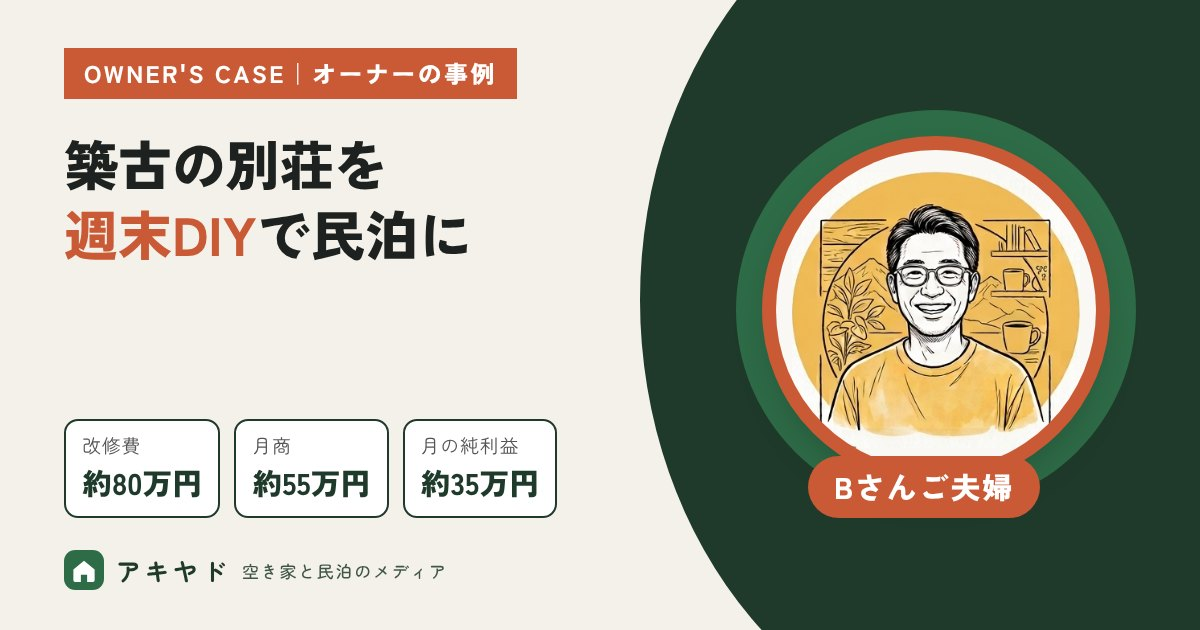
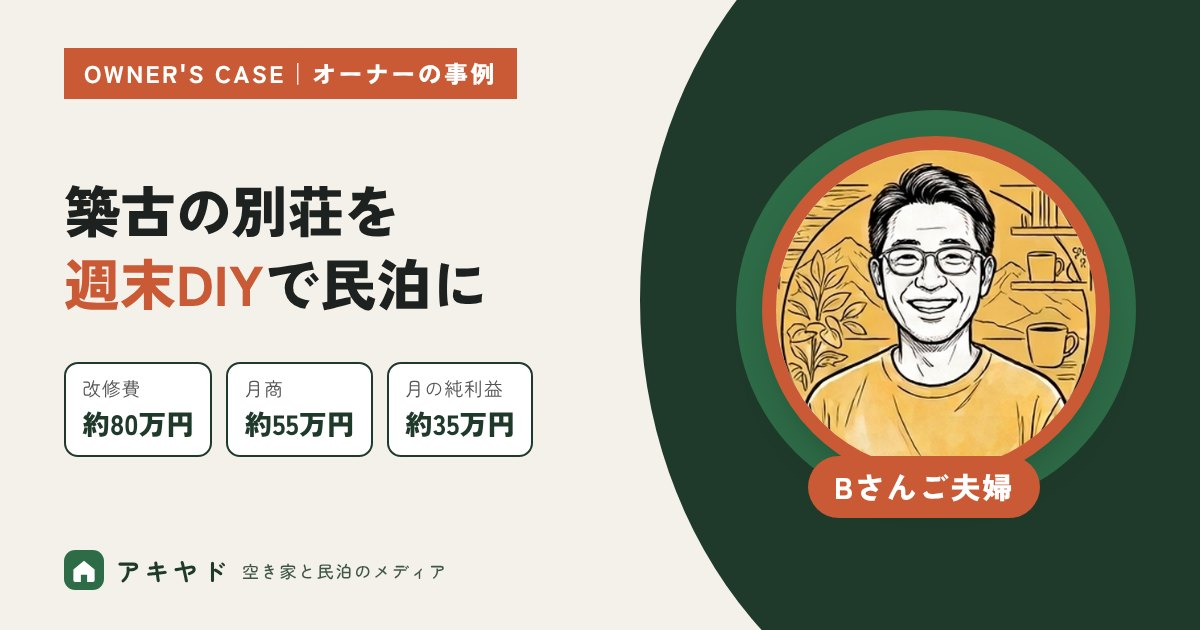
事例のトップ画像: 人物の背面の四角い枠を消し（円で切り出し）、余白のバランスを直す
Claude-Session: https://claude.ai/code/session_013hBbjahgzJghnMSabdd3SA

diff --git a/tools/eyecatch.py b/tools/eyecatch.py
@@ -202,13 +202,14 @@ LAYOUT_CSS = {
 .av{position:absolute;z-index:2;right:104px;top:150px;width:320px;height:320px;border-radius:50%;background:#fff center/cover no-repeat;box-shadow:0 0 0 14px #c95a35,0 18px 40px rgba(0,0,0,.25)}
 .who{position:absolute;z-index:3;right:160px;top:456px;padding:8px 26px 10px;border-radius:999px;background:#c95a35;color:#fff;font-family:"Zen Kaku Gothic New";font-weight:900;font-size:30px;letter-spacing:.06em;white-space:nowrap}
 .tag{position:absolute;z-index:2;left:64px;top:48px;padding:7px 20px 9px;background:#c95a35;color:#fff;font-family:"Zen Kaku Gothic New";font-weight:900;font-size:24px;letter-spacing:.1em}
-.t{position:absolute;z-index:2;left:64px;top:128px;width:560px}
-.h{font-family:"Zen Kaku Gothic New";font-weight:900;font-size:54px;line-height:1.3;white-space:nowrap}
+.left{position:absolute;z-index:2;left:64px;top:112px;bottom:112px;width:600px;display:flex;flex-direction:column;justify-content:center;gap:44px}
+.t{position:relative;width:560px}
+.h{font-family:"Zen Kaku Gothic New";font-weight:900;font-size:56px;line-height:1.3;white-space:nowrap}
 .h em{font-style:normal;color:#c95a35}
-.chips{position:absolute;z-index:2;left:64px;bottom:112px;display:flex;gap:14px}
-.chip{padding:10px 16px 12px;background:#fff;border-radius:14px;border:2px solid #1f3a2b;min-width:150px}
+.chips{position:relative;display:flex;gap:14px}
+.chip{padding:10px 16px 12px;background:#fff;border-radius:14px;border:2px solid #1f3a2b}
 .chip small{display:block;font-size:19px;color:#555;letter-spacing:.04em}
-.chip b{display:block;margin-top:2px;font-family:"Zen Kaku Gothic New";font-weight:900;font-size:30px;color:#1f3a2b;white-space:nowrap}
+.chip b{display:block;margin-top:2px;font-family:"Zen Kaku Gothic New";font-weight:900;font-size:28px;color:#1f3a2b;white-space:nowrap}
 .logo{z-index:3;left:64px;bottom:40px;color:#1f3a2b}
 .kicker{display:none}
 .avs{position:absolute;z-index:2;right:96px;top:120px;width:360px;display:grid;grid-template-columns:repeat(3,108px);gap:18px}
@@ -260,10 +261,10 @@ def design_html(a, b, d):
                  f'<div class="half r" style="{ph}"><b class="fit">{html.escape(d["b"])}</b></div><div class="vs">VS</div>'
                  f'<span class="kicker">{kicker}</span><div class="t"><div class="h">{h}</div></div>{logo}</div>')
     elif layout == "case":
-        av = os.path.join(ROOT, "images", "portraits", f"user_0{d.get('avatar', 1)}.png")
-        chips = "".join(f'<div class="chip"><small>{html.escape(k)}</small><b class="fit">{html.escape(v)}</b></div>' for k, v in d.get("chips", []))
+        av = os.path.join(ROOT, "images", "portraits", "circle", f"user_0{d.get('avatar', 1)}.png")
+        chips = "".join(f'<div class="chip"><small>{html.escape(k)}</small><b>{html.escape(v)}</b></div>' for k, v in d.get("chips", []))
         if d.get("avatars"):
-            ava = "".join(f'<i style="background-image:url(\'file://{os.path.join(ROOT, "images", "portraits", f"user_0{n}.png")}\')"></i>' for n in d["avatars"])
+            ava = "".join(f'<i style="background-image:url(\'file://{os.path.join(ROOT, "images", "portraits", "circle", f"user_0{n}.png")}\')"></i>' for n in d["avatars"])
             av_html = f'<div class="avs">{ava}</div>'
             who_html = ""
         else:
@@ -271,7 +272,7 @@ def design_html(a, b, d):
             who_html = f'<span class="who">{html.escape(d.get("who", ""))}</span>'
         inner = (f'<div class="w">{av_html}'
                  f'{who_html}<span class="tag">OWNER\'S CASE｜オーナーの事例</span>'
-                 f'<div class="t"><div class="h fit">{h}</div></div><div class="chips">{chips}</div>{logo}</div>')
+                 f'<div class="left"><div class="t"><div class="h fit">{h}</div></div><div class="chips">{chips}</div></div>{logo}</div>')
     elif layout == "marker":
         inner = f'<div class="w" style="{ph}"><div class="t"><span class="kicker">{kicker}</span><div class="h fit">{h}</div>{sub}</div>{logo}</div>'
     else:  # type
